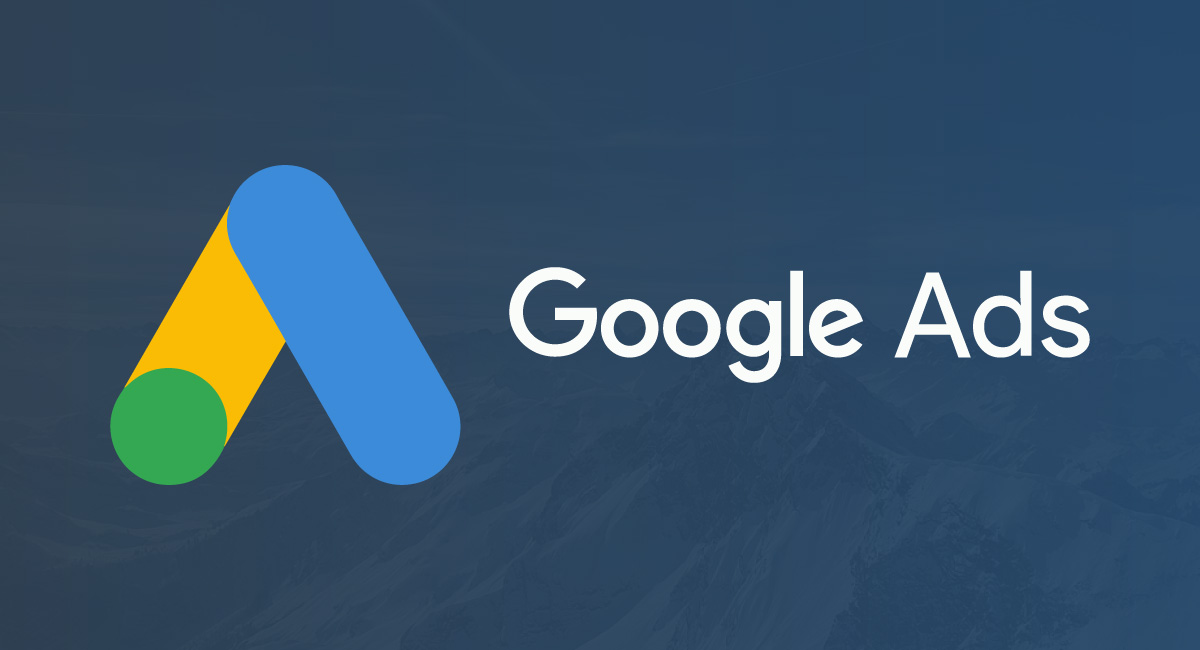
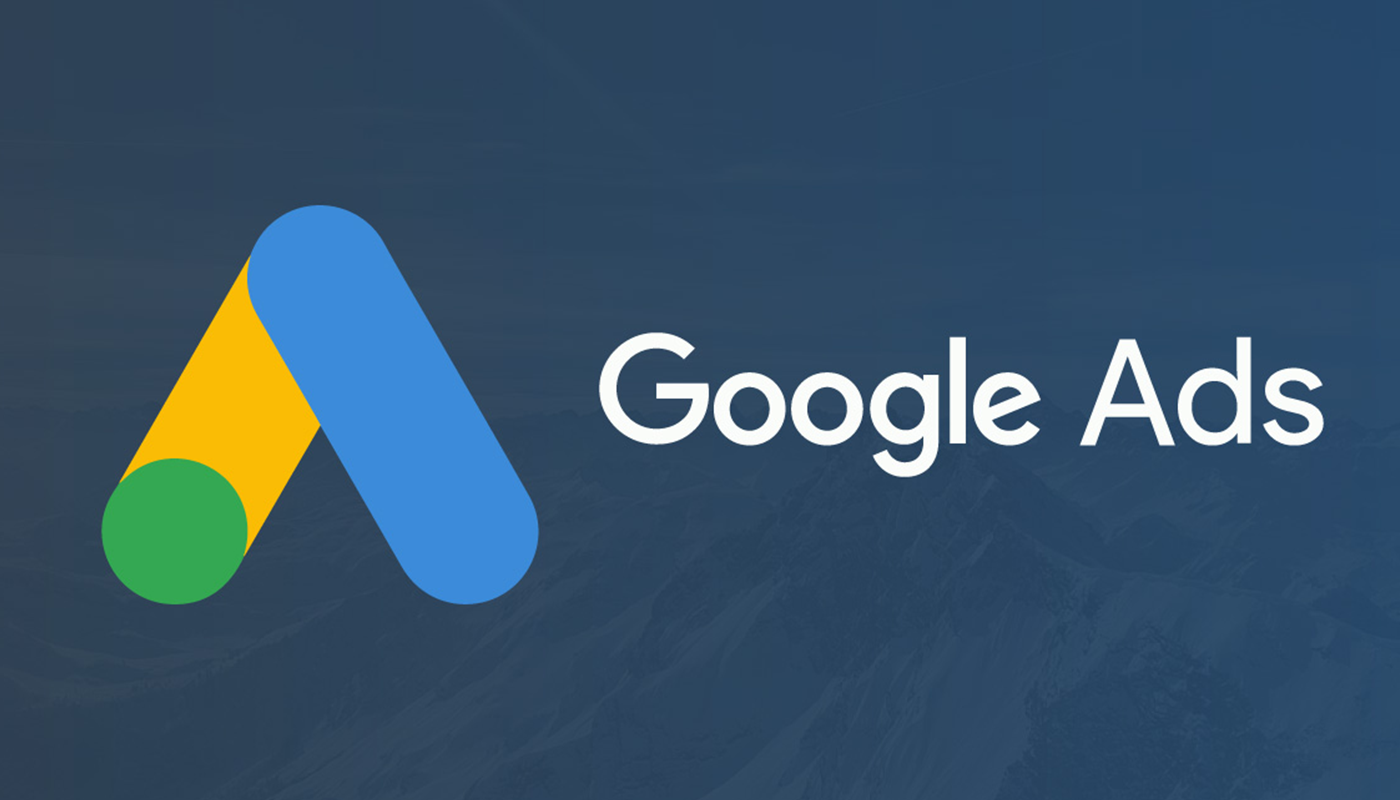
поміняв розмір фото

diff --git a/publick/index.html b/publick/index.html
@@ -74,6 +74,9 @@
           <div class="service__img"><img class="google" src="img/service/google_ads.jpg" alt="google">
             <p class="service__img_description">google text</p>
           </div>
+          <div class="service__img"><img class="google" src="img/service/copiwrite.png" alt="google">
+            <p class="service__img_description">copiwrite text</p>
+          </div>
         </div>
       </div>
     </section>

diff --git a/src/sass/style.sass b/src/sass/style.sass
@@ -148,6 +148,7 @@ section
     cursor: pointer
     display: flex
     flex-wrap: wrap
+    margin-bottom: 20px
     .service__img_description
         color: white
         font-size: 0px
@@ -160,8 +161,6 @@ section
         justify-content: center
         align-items: center
 
-.service__img:not(:last-child)
-    margin-bottom: 20px
 
 .service__img:hover
     box-shadow: 0px 8px 22px 19px rgba(0, 0, 0, 0.4)

diff --git a/publick/css/style.css b/publick/css/style.css
@@ -183,6 +183,7 @@ section {
   cursor: pointer;
   display: flex;
   flex-wrap: wrap;
+  margin-bottom: 20px;
 }
 .service__img .service__img_description {
   color: white;
@@ -195,10 +196,6 @@ section {
   display: flex;
   justify-content: center;
   align-items: center;
-}
-
-.service__img:not(:last-child) {
-  margin-bottom: 20px;
 }
 
 .service__img:hover {
